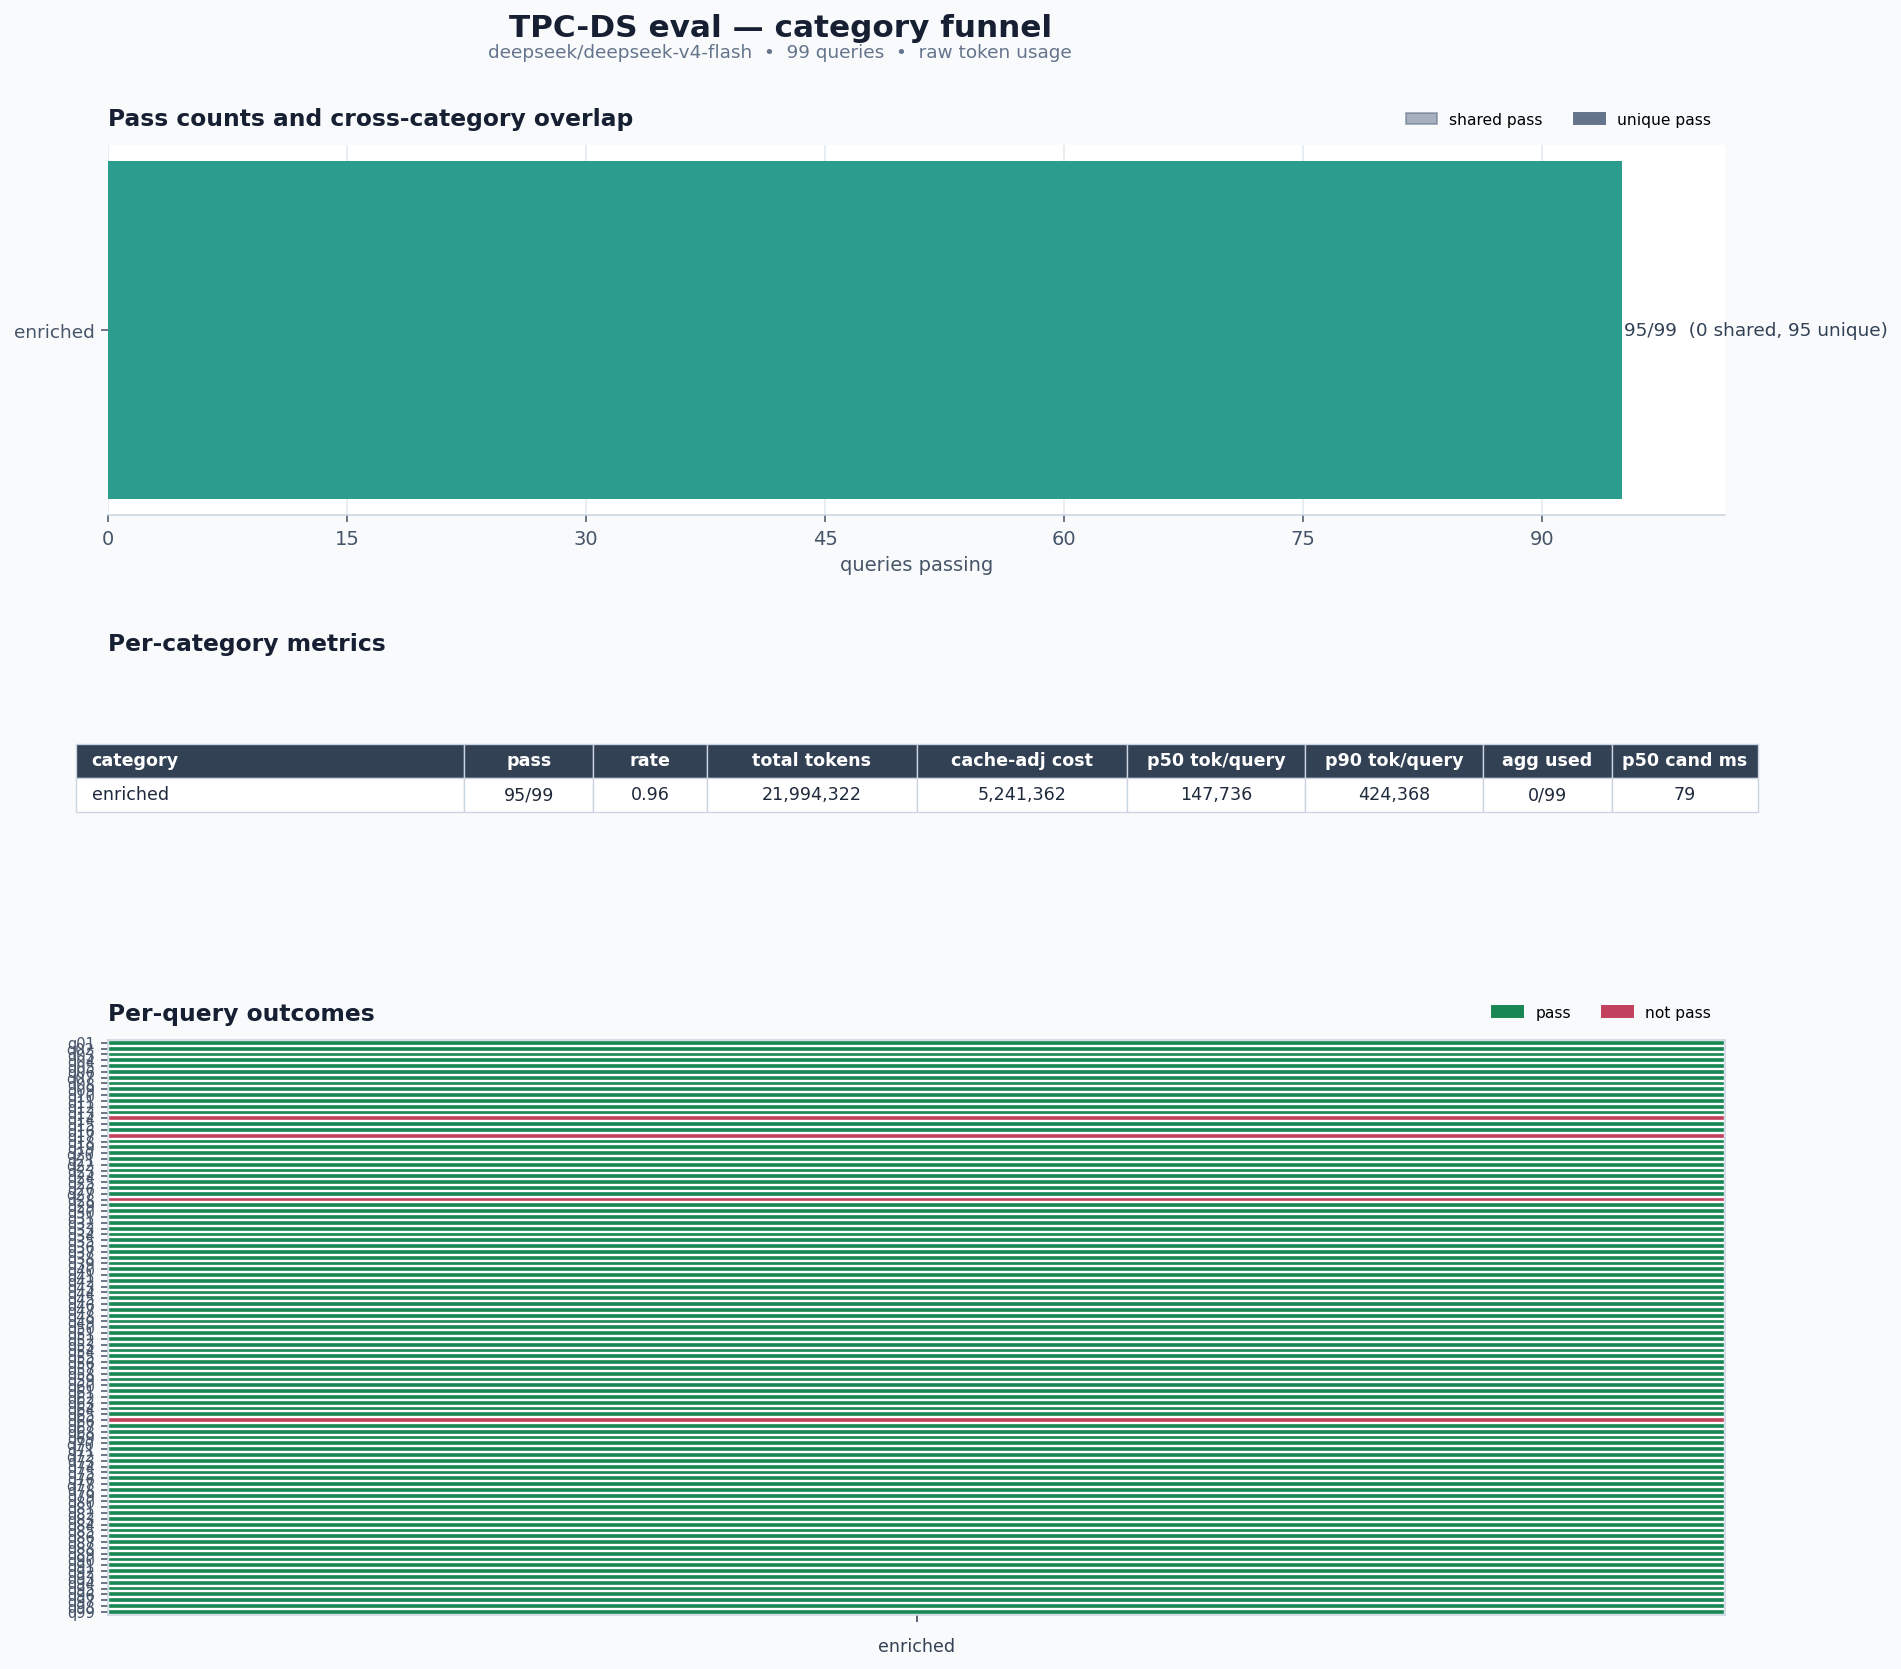
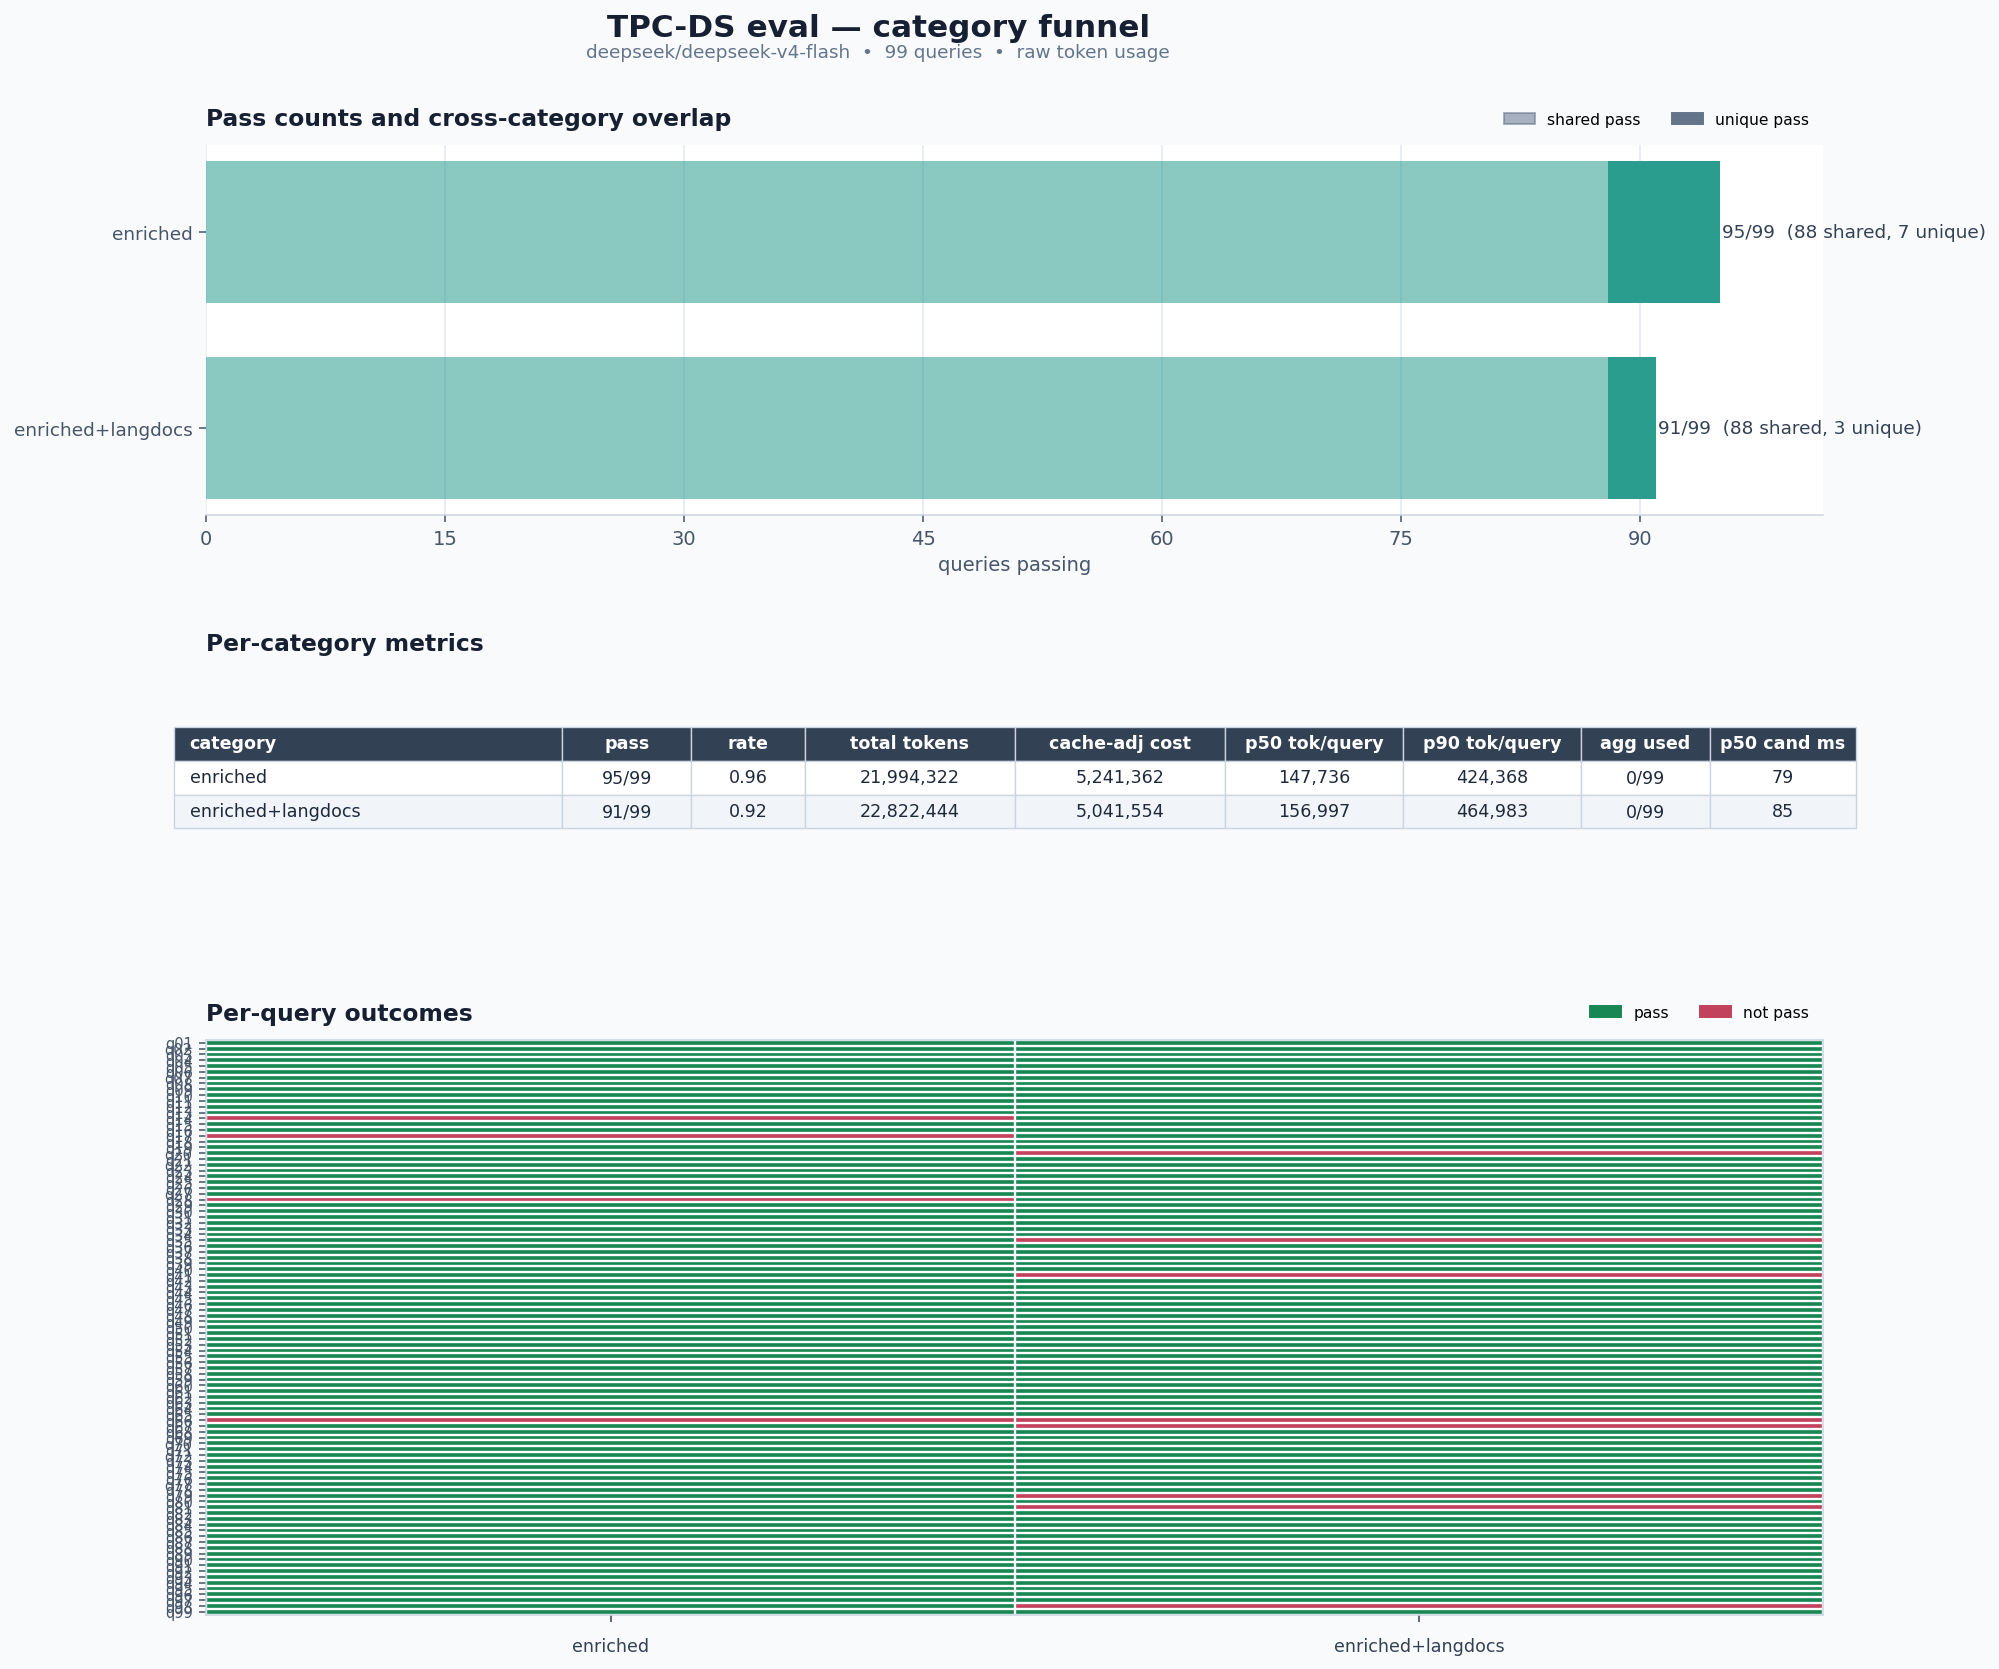
[Evals] enriched vs enriched_docs 99q A/B: results, handoff, funnel-order fix
Docs preload: -8% cache-adjusted tokens, -1.3 turns, discovery calls 99->9;
pass 91 vs 95 needs triage (handoff has the evening plan). Also adds
enriched_docs to the spec's pinned funnel_order, which had silently dropped
the new leg from the funnel report.

Claude-Session: https://claude.ai/code/session_01G4MnNcapXJp1FUj8kJw6it

diff --git a/evals/tpcds_agent/spec.py b/evals/tpcds_agent/spec.py
@@ -193,6 +193,7 @@ SPEC = BenchmarkSpec(
         *(f"sql_bare_confusable_x{level}" for level in (1, 2, 3)),
         "ingest",
         "enriched",
+        "enriched_docs",
         "enriched_aggregates",
         "enriched_noise",
         "enriched_confusable",

diff --git a/evals/tpcds_agent/charts/funnel_deepseek_deepseek-v4-flash.md b/evals/tpcds_agent/charts/funnel_deepseek_deepseek-v4-flash.md
@@ -4,114 +4,116 @@
 
 | category | passing | unique passes | shared passes |
 |---|---|---|---|
-| enriched | 95/99 | q01, q02, q03, q04, q05, q06, q07, q08, q09, q10, q11, q12, q13, q15, q16, q18, q19, q20, q21, q22, q23, q24, q25, q26, q27, q29, q30, q31, q32, q33, q34, q35, q36, q37, q38, q39, q40, q41, q42, q43, q44, q45, q46, q47, q48, q49, q50, q51, q52, q53, q54, q55, q56, q57, q58, q59, q60, q61, q62, q63, q64, q65, q67, q68, q69, q70, q71, q72, q73, q74, q75, q76, q77, q78, q79, q80, q81, q82, q83, q84, q85, q86, q87, q88, q89, q90, q91, q92, q93, q94, q95, q96, q97, q98, q99 | — |
+| enriched | 95/99 | q20, q35, q41, q67, q79, q81, q98 | q01, q02, q03, q04, q05, q06, q07, q08, q09, q10, q11, q12, q13, q15, q16, q18, q19, q21, q22, q23, q24, q25, q26, q27, q29, q30, q31, q32, q33, q34, q36, q37, q38, q39, q40, q42, q43, q44, q45, q46, q47, q48, q49, q50, q51, q52, q53, q54, q55, q56, q57, q58, q59, q60, q61, q62, q63, q64, q65, q68, q69, q70, q71, q72, q73, q74, q75, q76, q77, q78, q80, q82, q83, q84, q85, q86, q87, q88, q89, q90, q91, q92, q93, q94, q95, q96, q97, q99 |
+| enriched+langdocs | 91/99 | q14, q17, q28 | q01, q02, q03, q04, q05, q06, q07, q08, q09, q10, q11, q12, q13, q15, q16, q18, q19, q21, q22, q23, q24, q25, q26, q27, q29, q30, q31, q32, q33, q34, q36, q37, q38, q39, q40, q42, q43, q44, q45, q46, q47, q48, q49, q50, q51, q52, q53, q54, q55, q56, q57, q58, q59, q60, q61, q62, q63, q64, q65, q68, q69, q70, q71, q72, q73, q74, q75, q76, q77, q78, q80, q82, q83, q84, q85, q86, q87, q88, q89, q90, q91, q92, q93, q94, q95, q96, q97, q99 |
 
 ## Metrics
 
 | category | pass rate | total tokens | cache-adj cost | agg used | p50 cand ms |
 |---|---|---|---|---|---|
 | enriched | 0.96 | 21,994,322 | 5,241,362 | 0/99 | 79 |
+| enriched+langdocs | 0.92 | 22,822,444 | 5,041,554 | 0/99 | 85 |
 
 ## Per-query matrix
 
-| query | enriched |
-|---|---|
-| q01 | ✅ |
-| q02 | ✅ |
-| q03 | ✅ |
-| q04 | ✅ |
-| q05 | ✅ |
-| q06 | ✅ |
-| q07 | ✅ |
-| q08 | ✅ |
-| q09 | ✅ |
-| q10 | ✅ |
-| q11 | ✅ |
-| q12 | ✅ |
-| q13 | ✅ |
-| q14 | ❌ timeout |
-| q15 | ✅ |
-| q16 | ✅ |
-| q17 | ❌ timeout |
-| q18 | ✅ |
-| q19 | ✅ |
-| q20 | ✅ |
-| q21 | ✅ |
-| q22 | ✅ |
-| q23 | ✅ |
-| q24 | ✅ |
-| q25 | ✅ |
-| q26 | ✅ |
-| q27 | ✅ |
-| q28 | ❌ fail |
-| q29 | ✅ |
-| q30 | ✅ |
-| q31 | ✅ |
-| q32 | ✅ |
-| q33 | ✅ |
-| q34 | ✅ |
-| q35 | ✅ |
-| q36 | ✅ |
-| q37 | ✅ |
-| q38 | ✅ |
-| q39 | ✅ |
-| q40 | ✅ |
-| q41 | ✅ |
-| q42 | ✅ |
-| q43 | ✅ |
-| q44 | ✅ |
-| q45 | ✅ |
-| q46 | ✅ |
-| q47 | ✅ |
-| q48 | ✅ |
-| q49 | ✅ |
-| q50 | ✅ |
-| q51 | ✅ |
-| q52 | ✅ |
-| q53 | ✅ |
-| q54 | ✅ |
-| q55 | ✅ |
-| q56 | ✅ |
-| q57 | ✅ |
-| q58 | ✅ |
-| q59 | ✅ |
-| q60 | ✅ |
-| q61 | ✅ |
-| q62 | ✅ |
-| q63 | ✅ |
-| q64 | ✅ |
-| q65 | ✅ |
-| q66 | ❌ fail |
-| q67 | ✅ |
-| q68 | ✅ |
-| q69 | ✅ |
-| q70 | ✅ |
-| q71 | ✅ |
-| q72 | ✅ |
-| q73 | ✅ |
-| q74 | ✅ |
-| q75 | ✅ |
-| q76 | ✅ |
-| q77 | ✅ |
-| q78 | ✅ |
-| q79 | ✅ |
-| q80 | ✅ |
-| q81 | ✅ |
-| q82 | ✅ |
-| q83 | ✅ |
-| q84 | ✅ |
-| q85 | ✅ |
-| q86 | ✅ |
-| q87 | ✅ |
-| q88 | ✅ |
-| q89 | ✅ |
-| q90 | ✅ |
-| q91 | ✅ |
-| q92 | ✅ |
-| q93 | ✅ |
-| q94 | ✅ |
-| q95 | ✅ |
-| q96 | ✅ |
-| q97 | ✅ |
-| q98 | ✅ |
-| q99 | ✅ |
+| query | enriched | enriched+langdocs |
+|---|---|---|
+| q01 | ✅ | ✅ |
+| q02 | ✅ | ✅ |
+| q03 | ✅ | ✅ |
+| q04 | ✅ | ✅ |
+| q05 | ✅ | ✅ |
+| q06 | ✅ | ✅ |
+| q07 | ✅ | ✅ |
+| q08 | ✅ | ✅ |
+| q09 | ✅ | ✅ |
+| q10 | ✅ | ✅ |
+| q11 | ✅ | ✅ |
+| q12 | ✅ | ✅ |
+| q13 | ✅ | ✅ |
+| q14 | ❌ timeout | ✅ |
+| q15 | ✅ | ✅ |
+| q16 | ✅ | ✅ |
+| q17 | ❌ timeout | ✅ |
+| q18 | ✅ | ✅ |
+| q19 | ✅ | ✅ |
+| q20 | ✅ | ❌ fail |
+| q21 | ✅ | ✅ |
+| q22 | ✅ | ✅ |
+| q23 | ✅ | ✅ |
+| q24 | ✅ | ✅ |
+| q25 | ✅ | ✅ |
+| q26 | ✅ | ✅ |
+| q27 | ✅ | ✅ |
+| q28 | ❌ fail | ✅ |
+| q29 | ✅ | ✅ |
+| q30 | ✅ | ✅ |
+| q31 | ✅ | ✅ |
+| q32 | ✅ | ✅ |
+| q33 | ✅ | ✅ |
+| q34 | ✅ | ✅ |
+| q35 | ✅ | ❌ fail |
+| q36 | ✅ | ✅ |
+| q37 | ✅ | ✅ |
+| q38 | ✅ | ✅ |
+| q39 | ✅ | ✅ |
+| q40 | ✅ | ✅ |
+| q41 | ✅ | ❌ fail |
+| q42 | ✅ | ✅ |
+| q43 | ✅ | ✅ |
+| q44 | ✅ | ✅ |
+| q45 | ✅ | ✅ |
+| q46 | ✅ | ✅ |
+| q47 | ✅ | ✅ |
+| q48 | ✅ | ✅ |
+| q49 | ✅ | ✅ |
+| q50 | ✅ | ✅ |
+| q51 | ✅ | ✅ |
+| q52 | ✅ | ✅ |
+| q53 | ✅ | ✅ |
+| q54 | ✅ | ✅ |
+| q55 | ✅ | ✅ |
+| q56 | ✅ | ✅ |
+| q57 | ✅ | ✅ |
+| q58 | ✅ | ✅ |
+| q59 | ✅ | ✅ |
+| q60 | ✅ | ✅ |
+| q61 | ✅ | ✅ |
+| q62 | ✅ | ✅ |
+| q63 | ✅ | ✅ |
+| q64 | ✅ | ✅ |
+| q65 | ✅ | ✅ |
+| q66 | ❌ fail | ❌ fail |
+| q67 | ✅ | ❌ fail |
+| q68 | ✅ | ✅ |
+| q69 | ✅ | ✅ |
+| q70 | ✅ | ✅ |
+| q71 | ✅ | ✅ |
+| q72 | ✅ | ✅ |
+| q73 | ✅ | ✅ |
+| q74 | ✅ | ✅ |
+| q75 | ✅ | ✅ |
+| q76 | ✅ | ✅ |
+| q77 | ✅ | ✅ |
+| q78 | ✅ | ✅ |
+| q79 | ✅ | ❌ fail |
+| q80 | ✅ | ✅ |
+| q81 | ✅ | ❌ fail |
+| q82 | ✅ | ✅ |
+| q83 | ✅ | ✅ |
+| q84 | ✅ | ✅ |
+| q85 | ✅ | ✅ |
+| q86 | ✅ | ✅ |
+| q87 | ✅ | ✅ |
+| q88 | ✅ | ✅ |
+| q89 | ✅ | ✅ |
+| q90 | ✅ | ✅ |
+| q91 | ✅ | ✅ |
+| q92 | ✅ | ✅ |
+| q93 | ✅ | ✅ |
+| q94 | ✅ | ✅ |
+| q95 | ✅ | ✅ |
+| q96 | ✅ | ✅ |
+| q97 | ✅ | ✅ |
+| q98 | ✅ | ❌ fail |
+| q99 | ✅ | ✅ |

diff --git a/evals/tpcds_agent/handoff_docs_ab_20260820.md b/evals/tpcds_agent/handoff_docs_ab_20260820.md
@@ -1,0 +1,88 @@
+# Handoff: enriched vs enriched_docs A/B (run 20260820-153007)
+
+For the evening session. Everything here is from run `20260820-153007`
+(99q x 2 legs, sf=1, deepseek-v4-flash, concurrency 3/leg), the first run on
+the post-probe-wave tree: explore json v3 outline, the q17 Syntax[225] fix,
+the q47 codegen fixes, and the new `enriched_docs` category all landed earlier
+the same day. Do NOT compare this run's numbers to any pre-08-20 run without
+remembering all four changed at once; the only clean comparison is the two
+legs of THIS run against each other.
+
+## Results
+
+| | enriched | enriched_docs |
+|---|---|---|
+| pass | 95/99 | 91/99 |
+| raw tokens med / mean | 147.7k / 222.2k | 157.0k / 230.5k |
+| cache-adj med / mean | 42.1k / 52.9k | 38.6k / 50.9k |
+| LLM calls med / mean | 8 / 9.5 | 7 / 8.2 |
+| agent-info directory calls | 99 | 9 |
+| agent-info subcalls total | 409 | 126 |
+| explore calls / avg chars | 438 / 5,705 | 452 / 5,347 |
+| explore payloads w/ dedup stubs | 236 | 215 |
+| first-turn prompt med | 2,182 | 6,670 (94% median cached share) |
+| fails | q14 (timeout), q17 (timeout), q28, q66 | q20, q35, q41, q66, q67, q79, q81, q98 (all wrong rows) |
+
+Funnel: `charts/funnel_deepseek_deepseek-v4-flash.{png,md}` (regenerated after
+fixing a gap: the tpcds spec pins its own `funnel_order`, which had not gained
+`enriched_docs`; fixed in `spec.py` same day, so future funnels include it).
+
+## Findings
+
+1. **Docs preload works mechanically and pays modestly.** The inline
+   reference collapses discovery (agent-info directory calls 99 to 9,
+   subcalls 409 to 126), saves 1.3 turns and ~8% cache-adjusted tokens
+   (42.1k to 38.6k median), and the shared task prefix cache-hits at 94%
+   median from query 2 on. Raw tokens go UP ~6% because every turn re-carries
+   the ~4.5k-token preamble; adjusted cost is the billing-real metric.
+2. **The docs leg dropped 4 net passes and that needs triage before believing
+   it.** 8 wrong-row fails, mostly disjoint from enriched's fails (only q66
+   shared); at one run this is ~1.8 sigma, i.e. weak evidence, but the shape
+   is worth checking: did docs-leg agents skip syntax-example drilldowns they
+   needed (126 vs 409 subcalls) and author subtly wrong idioms? Start with
+   q81 (sink AND fail, 181k adj) via
+   `repeat_query.py --query-id 81 --repeats 10 --scale-factor 1 --category enriched_docs`,
+   and read its `agent_log.q81.conversation.txt` against the enriched leg's
+   passing q81.
+3. **Explore v3 halved per-call size but the drill-down protocol doubled the
+   call count, netting roughly a wash on this run.** Per-call chars 12.0k to
+   5.7k, dedup now fires (54% of payloads carry `already_shown` stubs), but
+   calls/query went 2.4 to 4.4 and mean LLM calls rose ~1 on the enriched
+   leg. Paired against yesterday's enriched leg: raw med +12k / mean -5.6k,
+   adj med +1.5k / mean -2.1k. Tuning candidates, in order: (a) guidance to
+   pass SEVERAL `--ns` in ONE call (the flag is repeatable; agents issue
+   sequential single-`--ns` calls today, each rebilling the context); (b)
+   auto-expand the 1-2 dims the `--regex`/question terms touch; (c) check
+   whether `TRILOGY_EXPLORE_COMPACT=0` on one leg of a future run isolates
+   the outline's pass-rate effect.
+
+## Top cache-adjusted sinks this run (adj basis per the q29 lesson; raw is
+reasoning-replay inflated ~5-10x)
+
+- enriched: q05 218k, q64 207k, q14 183k (timeout), q44 148k, q84 137k,
+  q25 128k. All but q14's timeout are known open reports
+  (`INDEX_probe_wave_2026_08_20.md`): keyless cluster (q05/q25/q64/q84),
+  q44 empty-error, q14 values-list binder.
+- enriched_docs: q84 294k, q81 182k (FAIL, new), q75 141k, q14 121k,
+  q86 118k, q23 115k, q05 115k, q17 112k.
+
+q17 no longer syntax-loops (fix verified in the docs leg: passed at 112k adj)
+but TIMED OUT on the enriched leg; check whether that is the q64-style perf
+cliff or a new obstacle before filing anything.
+
+## Suggested evening order
+
+1. Triage the docs-leg fails (finding 2). If systematic, the fix is likely a
+   preamble tweak (e.g. keep pointing at syntax examples) not a revert.
+2. q81 + q84 sink probes (both legs' q84 grew; the keyless-cluster report
+   likely explains it, confirm before new filings).
+3. Explore v3 tuning 3a (one-line guidance change), then a 10x repeat on a
+   deliberation-heavy query (q49-class) to check the call-count effect.
+4. Bugfix backlog: `INDEX_probe_wave_2026_08_20.md` and `README.md` stack
+   rank (keyless cluster is the highest-leverage open engine bug; q44 and
+   q14 next).
+
+House rules that bit today: never run two pytest processes at once; results
+comparisons on adj basis; a >500k raw query is only a detector lead after
+cache adjustment; `repeat_query.py` for any pass-rate claim; the tree may
+have another session working in parallel, so never git stash/checkout/reset.
